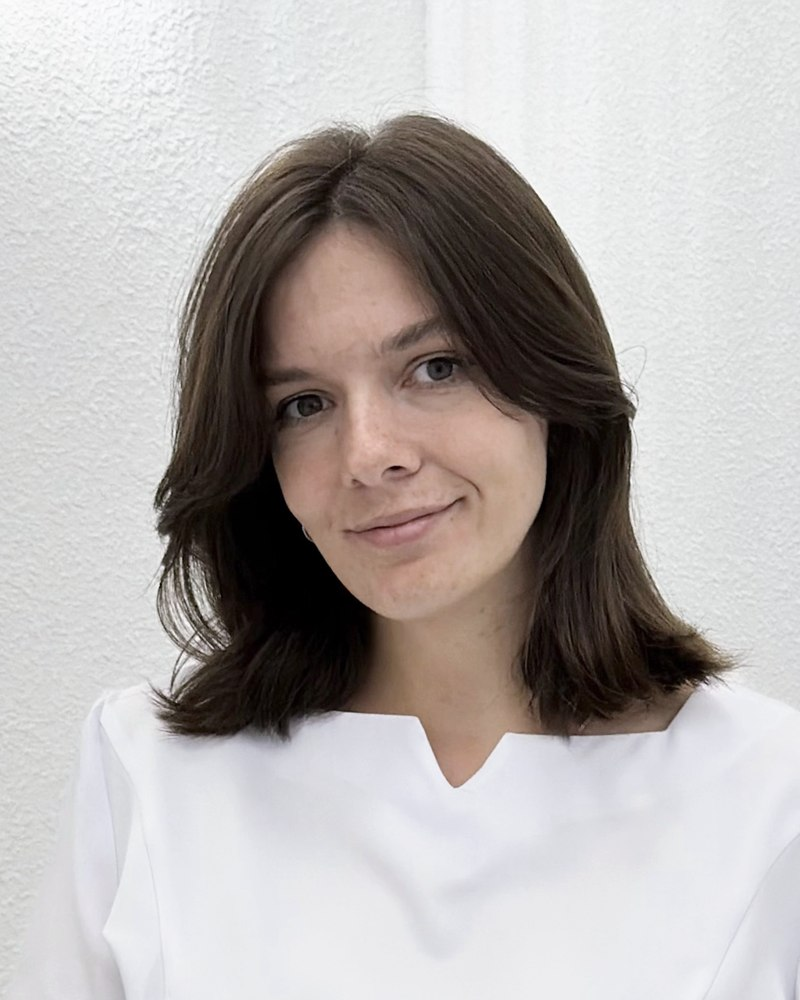
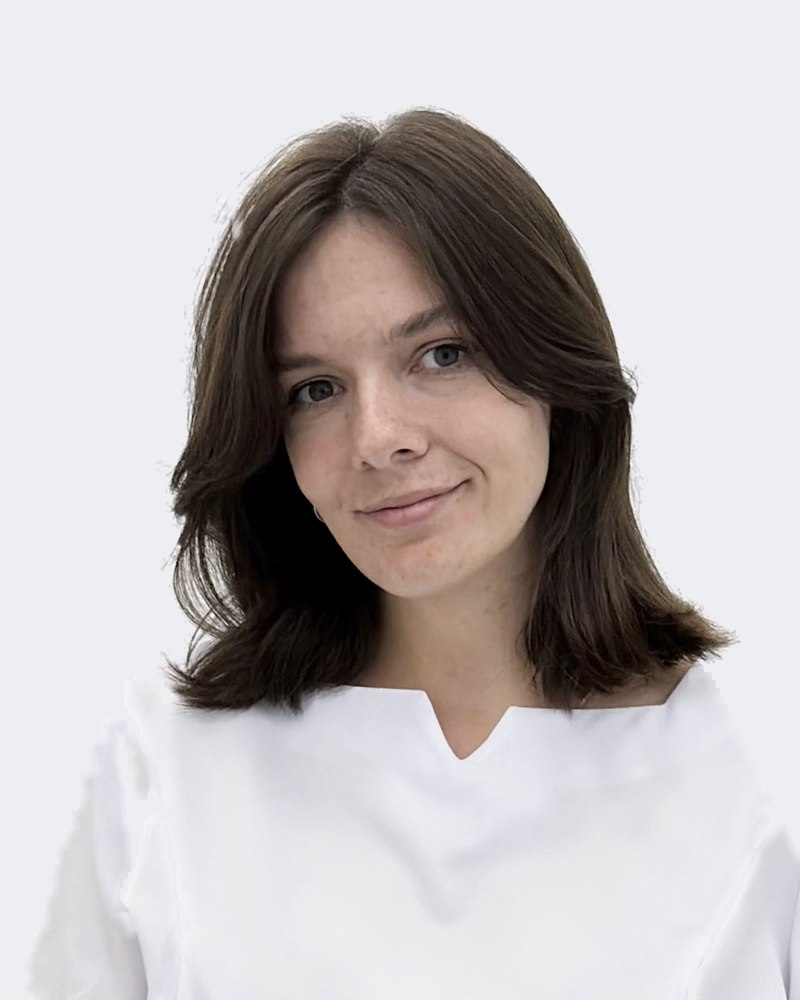
Врачи: лица по эталону (Мефаева) — один размер и положение, ровный светлый фон

diff --git a/app-concept.html b/app-concept.html
@@ -6,9 +6,9 @@
   <title>Приложение «Колибри» — концепция</title>
   <meta name="description" content="Концепция мобильного приложения детской клиники «Колибри»: функционал по референсу, экраны в фирменном стиле, интеграция с МИС МЕДМИС.">
   <link rel="icon" href="img/logo.png" type="image/png">
-  <link rel="stylesheet" href="css/fonts.css?v=202610021945">
+  <link rel="stylesheet" href="css/fonts.css?v=202610022009">
 
-  <link rel="stylesheet" href="css/style.css?v=202610021945">
+  <link rel="stylesheet" href="css/style.css?v=202610022009">
   <style>
     /* ---------- страница ---------- */
     .concept-hero { background: linear-gradient(120deg, var(--p600), var(--p800)); color: #fff; border-radius: 32px; padding: 44px 48px; margin-top: 24px; display: grid; grid-template-columns: 1.2fr .8fr; gap: 32px; align-items: center; position: relative; overflow: hidden; }
@@ -777,8 +777,8 @@
   <symbol id="a-alert" viewBox="0 0 24 24" fill="none" stroke="currentColor" stroke-width="2" stroke-linecap="round" stroke-linejoin="round"><circle cx="12" cy="12" r="9"/><path d="M12 7v6M12 16h.01"/></symbol>
 </svg>
 
-<script src="js/data.js?v=202610021945"></script>
-<script src="js/photos.js?v=202610021945"></script>
-<script src="js/main.js?v=202610021945"></script>
+<script src="js/data.js?v=202610022009"></script>
+<script src="js/photos.js?v=202610022009"></script>
+<script src="js/main.js?v=202610022009"></script>
 </body>
 </html>

diff --git a/index.html b/index.html
@@ -6,9 +6,9 @@
   <title>Детская клиника «Колибри» — Симферополь, с. Мирное | Забота с первых дней</title>
   <meta name="description" content="Детская клиника «Колибри» в с. Мирное (Симферопольский район): педиатр-неонатолог, сопровождение недоношенных детей, УЗИ экспертного класса от 0 до 99 лет, вакцинация с рождения. Запись: +7 (978) 130-00-30">
   <link rel="icon" href="img/logo.png" type="image/png">
-  <link rel="stylesheet" href="css/fonts.css?v=202610021945">
+  <link rel="stylesheet" href="css/fonts.css?v=202610022009">
 
-  <link rel="stylesheet" href="css/style.css?v=202610021945">
+  <link rel="stylesheet" href="css/style.css?v=202610022009">
 </head>
 <body>
 
@@ -236,8 +236,8 @@
   </div>
 </section>
 
-<script src="js/data.js?v=202610021945"></script>
-<script src="js/photos.js?v=202610021945"></script>
-<script src="js/main.js?v=202610021945"></script>
+<script src="js/data.js?v=202610022009"></script>
+<script src="js/photos.js?v=202610022009"></script>
+<script src="js/main.js?v=202610022009"></script>
 </body>
 </html>

diff --git a/ceny.html b/ceny.html
@@ -6,9 +6,9 @@
   <title>Программы наблюдения и цены — Детская клиника «Колибри», с. Мирное</title>
   <meta name="description" content="Цены детской клиники «Колибри»: программы наблюдения детей от рождения до 6 и до 12 месяцев, осмотры педиатра, неонатолога, офтальмолога с сопровождением в мессенджере, пакет для недоношенных детей.">
   <link rel="icon" href="img/logo.png" type="image/png">
-  <link rel="stylesheet" href="css/fonts.css?v=202610021945">
+  <link rel="stylesheet" href="css/fonts.css?v=202610022009">
 
-  <link rel="stylesheet" href="css/style.css?v=202610021945">
+  <link rel="stylesheet" href="css/style.css?v=202610022009">
 </head>
 <body>
 
@@ -62,8 +62,8 @@
   </div>
 </section>
 
-<script src="js/data.js?v=202610021945"></script>
-<script src="js/photos.js?v=202610021945"></script>
-<script src="js/main.js?v=202610021945"></script>
+<script src="js/data.js?v=202610022009"></script>
+<script src="js/photos.js?v=202610022009"></script>
+<script src="js/main.js?v=202610022009"></script>
 </body>
 </html>

diff --git a/uslugi.html b/uslugi.html
@@ -6,9 +6,9 @@
   <title>Услуги — Детская клиника «Колибри», с. Мирное</title>
   <meta name="description" content="Услуги детской клиники «Колибри»: педиатр-неонатолог, сопровождение недоношенных детей, ортопед, хирург и уролог, невролог, офтальмолог, ЛОР, логопед, психолог, медсестра, консультант по грудному вскармливанию.">
   <link rel="icon" href="img/logo.png" type="image/png">
-  <link rel="stylesheet" href="css/fonts.css?v=202610021945">
+  <link rel="stylesheet" href="css/fonts.css?v=202610022009">
 
-  <link rel="stylesheet" href="css/style.css?v=202610021945">
+  <link rel="stylesheet" href="css/style.css?v=202610022009">
 </head>
 <body>
 
@@ -56,8 +56,8 @@
   </div>
 </section>
 
-<script src="js/data.js?v=202610021945"></script>
-<script src="js/photos.js?v=202610021945"></script>
-<script src="js/main.js?v=202610021945"></script>
+<script src="js/data.js?v=202610022009"></script>
+<script src="js/photos.js?v=202610022009"></script>
+<script src="js/main.js?v=202610022009"></script>
 </body>
 </html>

diff --git a/uzi.html b/uzi.html
@@ -6,9 +6,9 @@
   <title>УЗИ экспертного класса от 0 до 99 лет — Детская клиника «Колибри», с. Мирное</title>
   <meta name="description" content="Все виды УЗИ на аппарате экспертного класса: ЭхоКГ новорождённым весом до 3 кг, скрининг в 1 месяц, эластография, сосуды, лёгкие, кожа. Детям и взрослым. Запись: +7 (978) 130-00-30">
   <link rel="icon" href="img/logo.png" type="image/png">
-  <link rel="stylesheet" href="css/fonts.css?v=202610021945">
+  <link rel="stylesheet" href="css/fonts.css?v=202610022009">
 
-  <link rel="stylesheet" href="css/style.css?v=202610021945">
+  <link rel="stylesheet" href="css/style.css?v=202610022009">
 </head>
 <body>
 
@@ -74,8 +74,8 @@
   </div>
 </section>
 
-<script src="js/data.js?v=202610021945"></script>
-<script src="js/photos.js?v=202610021945"></script>
-<script src="js/main.js?v=202610021945"></script>
+<script src="js/data.js?v=202610022009"></script>
+<script src="js/photos.js?v=202610022009"></script>
+<script src="js/main.js?v=202610022009"></script>
 </body>
 </html>

diff --git a/rostomer.html b/rostomer.html
@@ -5,9 +5,9 @@
   <meta name="viewport" content="width=device-width, initial-scale=1">
   <title>Ростомер «Колибри» — варианты</title>
   <link rel="icon" href="img/logo.png" type="image/png">
-  <link rel="stylesheet" href="css/fonts.css?v=202610021945">
+  <link rel="stylesheet" href="css/fonts.css?v=202610022009">
 
-  <link rel="stylesheet" href="css/style.css?v=202610021945">
+  <link rel="stylesheet" href="css/style.css?v=202610022009">
   <style>
     .intro { background: #fff; border-radius: var(--radius); padding: 24px 28px; box-shadow: var(--shadow); margin-bottom: 28px; }
     .intro p { margin: 0 0 8px; font-size: 15px; }
@@ -89,10 +89,10 @@
   </div>
 </section>
 
-<script src="js/data.js?v=202610021945"></script>
-<script src="js/photos.js?v=202610021945"></script>
-<script src="js/main.js?v=202610021945"></script>
-<script src="js/rostomer.js?v=202610021945"></script>
+<script src="js/data.js?v=202610022009"></script>
+<script src="js/photos.js?v=202610022009"></script>
+<script src="js/main.js?v=202610022009"></script>
+<script src="js/rostomer.js?v=202610022009"></script>
 <script>
 (function () {
   window.ROSTOMER.variants.forEach(function (v, i) {

diff --git a/o-klinike.html b/o-klinike.html
@@ -6,9 +6,9 @@
   <title>О клинике — Детская клиника «Колибри», с. Мирное</title>
   <meta name="description" content="Детская клиника «Колибри» в с. Мирное Симферопольского района: врачи высшей категории, УЗИ экспертного класса, сопровождение недоношенных детей, вакцинация с рождения.">
   <link rel="icon" href="img/logo.png" type="image/png">
-  <link rel="stylesheet" href="css/fonts.css?v=202610021945">
+  <link rel="stylesheet" href="css/fonts.css?v=202610022009">
 
-  <link rel="stylesheet" href="css/style.css?v=202610021945">
+  <link rel="stylesheet" href="css/style.css?v=202610022009">
 </head>
 <body>
 
@@ -90,8 +90,8 @@
   </div>
 </section>
 
-<script src="js/data.js?v=202610021945"></script>
-<script src="js/photos.js?v=202610021945"></script>
-<script src="js/main.js?v=202610021945"></script>
+<script src="js/data.js?v=202610022009"></script>
+<script src="js/photos.js?v=202610022009"></script>
+<script src="js/main.js?v=202610022009"></script>
 </body>
 </html>

diff --git a/kontakty.html b/kontakty.html
@@ -6,9 +6,9 @@
   <title>Контакты — Детская клиника «Колибри», с. Мирное, ул. Крымской Весны, 9к1</title>
   <meta name="description" content="Детская клиника «Колибри»: Республика Крым, Симферопольский р-н, с. Мирное, ул. Крымской Весны, 9к1. Телефон +7 (978) 130-00-30. Схема проезда и режим работы.">
   <link rel="icon" href="img/logo.png" type="image/png">
-  <link rel="stylesheet" href="css/fonts.css?v=202610021945">
+  <link rel="stylesheet" href="css/fonts.css?v=202610022009">
 
-  <link rel="stylesheet" href="css/style.css?v=202610021945">
+  <link rel="stylesheet" href="css/style.css?v=202610022009">
 </head>
 <body>
 
@@ -54,8 +54,8 @@
   </div>
 </section>
 
-<script src="js/data.js?v=202610021945"></script>
-<script src="js/photos.js?v=202610021945"></script>
-<script src="js/main.js?v=202610021945"></script>
+<script src="js/data.js?v=202610022009"></script>
+<script src="js/photos.js?v=202610022009"></script>
+<script src="js/main.js?v=202610022009"></script>
 </body>
 </html>

diff --git a/vrachi.html b/vrachi.html
@@ -6,9 +6,9 @@
   <title>Врачи — Детская клиника «Колибри», с. Мирное</title>
   <meta name="description" content="Врачи детской клиники «Колибри»: педиатры-неонатологи высшей категории, ортопед, детский хирург и уролог, невролог, офтальмологи, ЛОР, врачи УЗИ. Запись: +7 (978) 130-00-30">
   <link rel="icon" href="img/logo.png" type="image/png">
-  <link rel="stylesheet" href="css/fonts.css?v=202610021945">
+  <link rel="stylesheet" href="css/fonts.css?v=202610022009">
 
-  <link rel="stylesheet" href="css/style.css?v=202610021945">
+  <link rel="stylesheet" href="css/style.css?v=202610022009">
 </head>
 <body>
 
@@ -44,8 +44,8 @@
   </div>
 </section>
 
-<script src="js/data.js?v=202610021945"></script>
-<script src="js/photos.js?v=202610021945"></script>
-<script src="js/main.js?v=202610021945"></script>
+<script src="js/data.js?v=202610022009"></script>
+<script src="js/photos.js?v=202610022009"></script>
+<script src="js/main.js?v=202610022009"></script>
 </body>
 </html>

diff --git a/poleznoe.html b/poleznoe.html
@@ -6,9 +6,9 @@
   <title>Полезное для родителей — Детская клиника «Колибри»</title>
   <meta name="description" content="Статьи врачей детской клиники «Колибри»: осмотры в первый месяц, УЗИ сердца новорождённому, прививки недоношенным, когда нужен невролог.">
   <link rel="icon" href="img/logo.png" type="image/png">
-  <link rel="stylesheet" href="css/fonts.css?v=202610021945">
+  <link rel="stylesheet" href="css/fonts.css?v=202610022009">
 
-  <link rel="stylesheet" href="css/style.css?v=202610021945">
+  <link rel="stylesheet" href="css/style.css?v=202610022009">
 </head>
 <body>
 
@@ -32,8 +32,8 @@
   </div>
 </section>
 
-<script src="js/data.js?v=202610021945"></script>
-<script src="js/photos.js?v=202610021945"></script>
-<script src="js/main.js?v=202610021945"></script>
+<script src="js/data.js?v=202610022009"></script>
+<script src="js/photos.js?v=202610022009"></script>
+<script src="js/main.js?v=202610022009"></script>
 </body>
 </html>

diff --git a/politika.html b/politika.html
@@ -6,8 +6,8 @@
   <title>Политика конфиденциальности — Детская клиника «Колибри»</title>
   <meta name="description" content="Политика обработки персональных данных пользователей сайта детской клиники «Колибри».">
   <link rel="icon" href="img/logo.png" type="image/png">
-  <link rel="stylesheet" href="css/fonts.css?v=202610021945">
-  <link rel="stylesheet" href="css/style.css?v=202610021945">
+  <link rel="stylesheet" href="css/fonts.css?v=202610022009">
+  <link rel="stylesheet" href="css/style.css?v=202610022009">
 </head>
 <body>
 
@@ -78,8 +78,8 @@
   </div>
 </section>
 
-<script src="js/data.js?v=202610021945"></script>
-<script src="js/photos.js?v=202610021945"></script>
-<script src="js/main.js?v=202610021945"></script>
+<script src="js/data.js?v=202610022009"></script>
+<script src="js/photos.js?v=202610022009"></script>
+<script src="js/main.js?v=202610022009"></script>
 </body>
 </html>

diff --git a/soglasie.html b/soglasie.html
@@ -7,8 +7,8 @@
   <meta name="description" content="Согласие на обработку персональных данных при отправке заявки на сайте детской клиники «Колибри».">
   <meta name="robots" content="noindex">
   <link rel="icon" href="img/logo.png" type="image/png">
-  <link rel="stylesheet" href="css/fonts.css?v=202610021945">
-  <link rel="stylesheet" href="css/style.css?v=202610021945">
+  <link rel="stylesheet" href="css/fonts.css?v=202610022009">
+  <link rel="stylesheet" href="css/style.css?v=202610022009">
 </head>
 <body>
 
@@ -57,8 +57,8 @@
   </div>
 </section>
 
-<script src="js/data.js?v=202610021945"></script>
-<script src="js/photos.js?v=202610021945"></script>
-<script src="js/main.js?v=202610021945"></script>
+<script src="js/data.js?v=202610022009"></script>
+<script src="js/photos.js?v=202610022009"></script>
+<script src="js/main.js?v=202610022009"></script>
 </body>
 </html>
